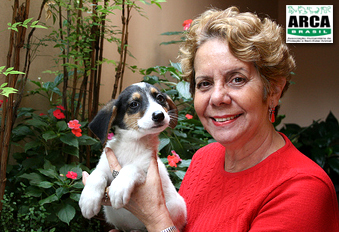
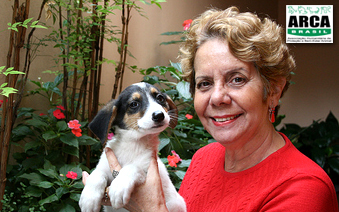
ajuste no tamanho das imagens

diff --git a/arca/src/app/home/home.component.html b/arca/src/app/home/home.component.html
@@ -12,7 +12,7 @@
     </div>
   </div>
   <div class="row">
-    <div class="col-lg-3 col-md-3 col-sm-12 col-xs-12" style="padding: 15px">
+    <div class="col-lg-3 col-md-3 col-sm-12 col-xs-12" style="padding: 15px;">
       <mat-card class="home__noticia">
         <a href="http://arcabrasil.org.br/index.php/25-anos-em-defesa-dos-animais/">
           <img mat-card-image src="../../assets/imagens/noticia1.jpg">

diff --git a/arca/src/app/home/home.component.scss b/arca/src/app/home/home.component.scss
@@ -77,6 +77,7 @@
     }
 
     &__noticia {
+        height: 350px;
         a,
         p {
             text-decoration: none;
